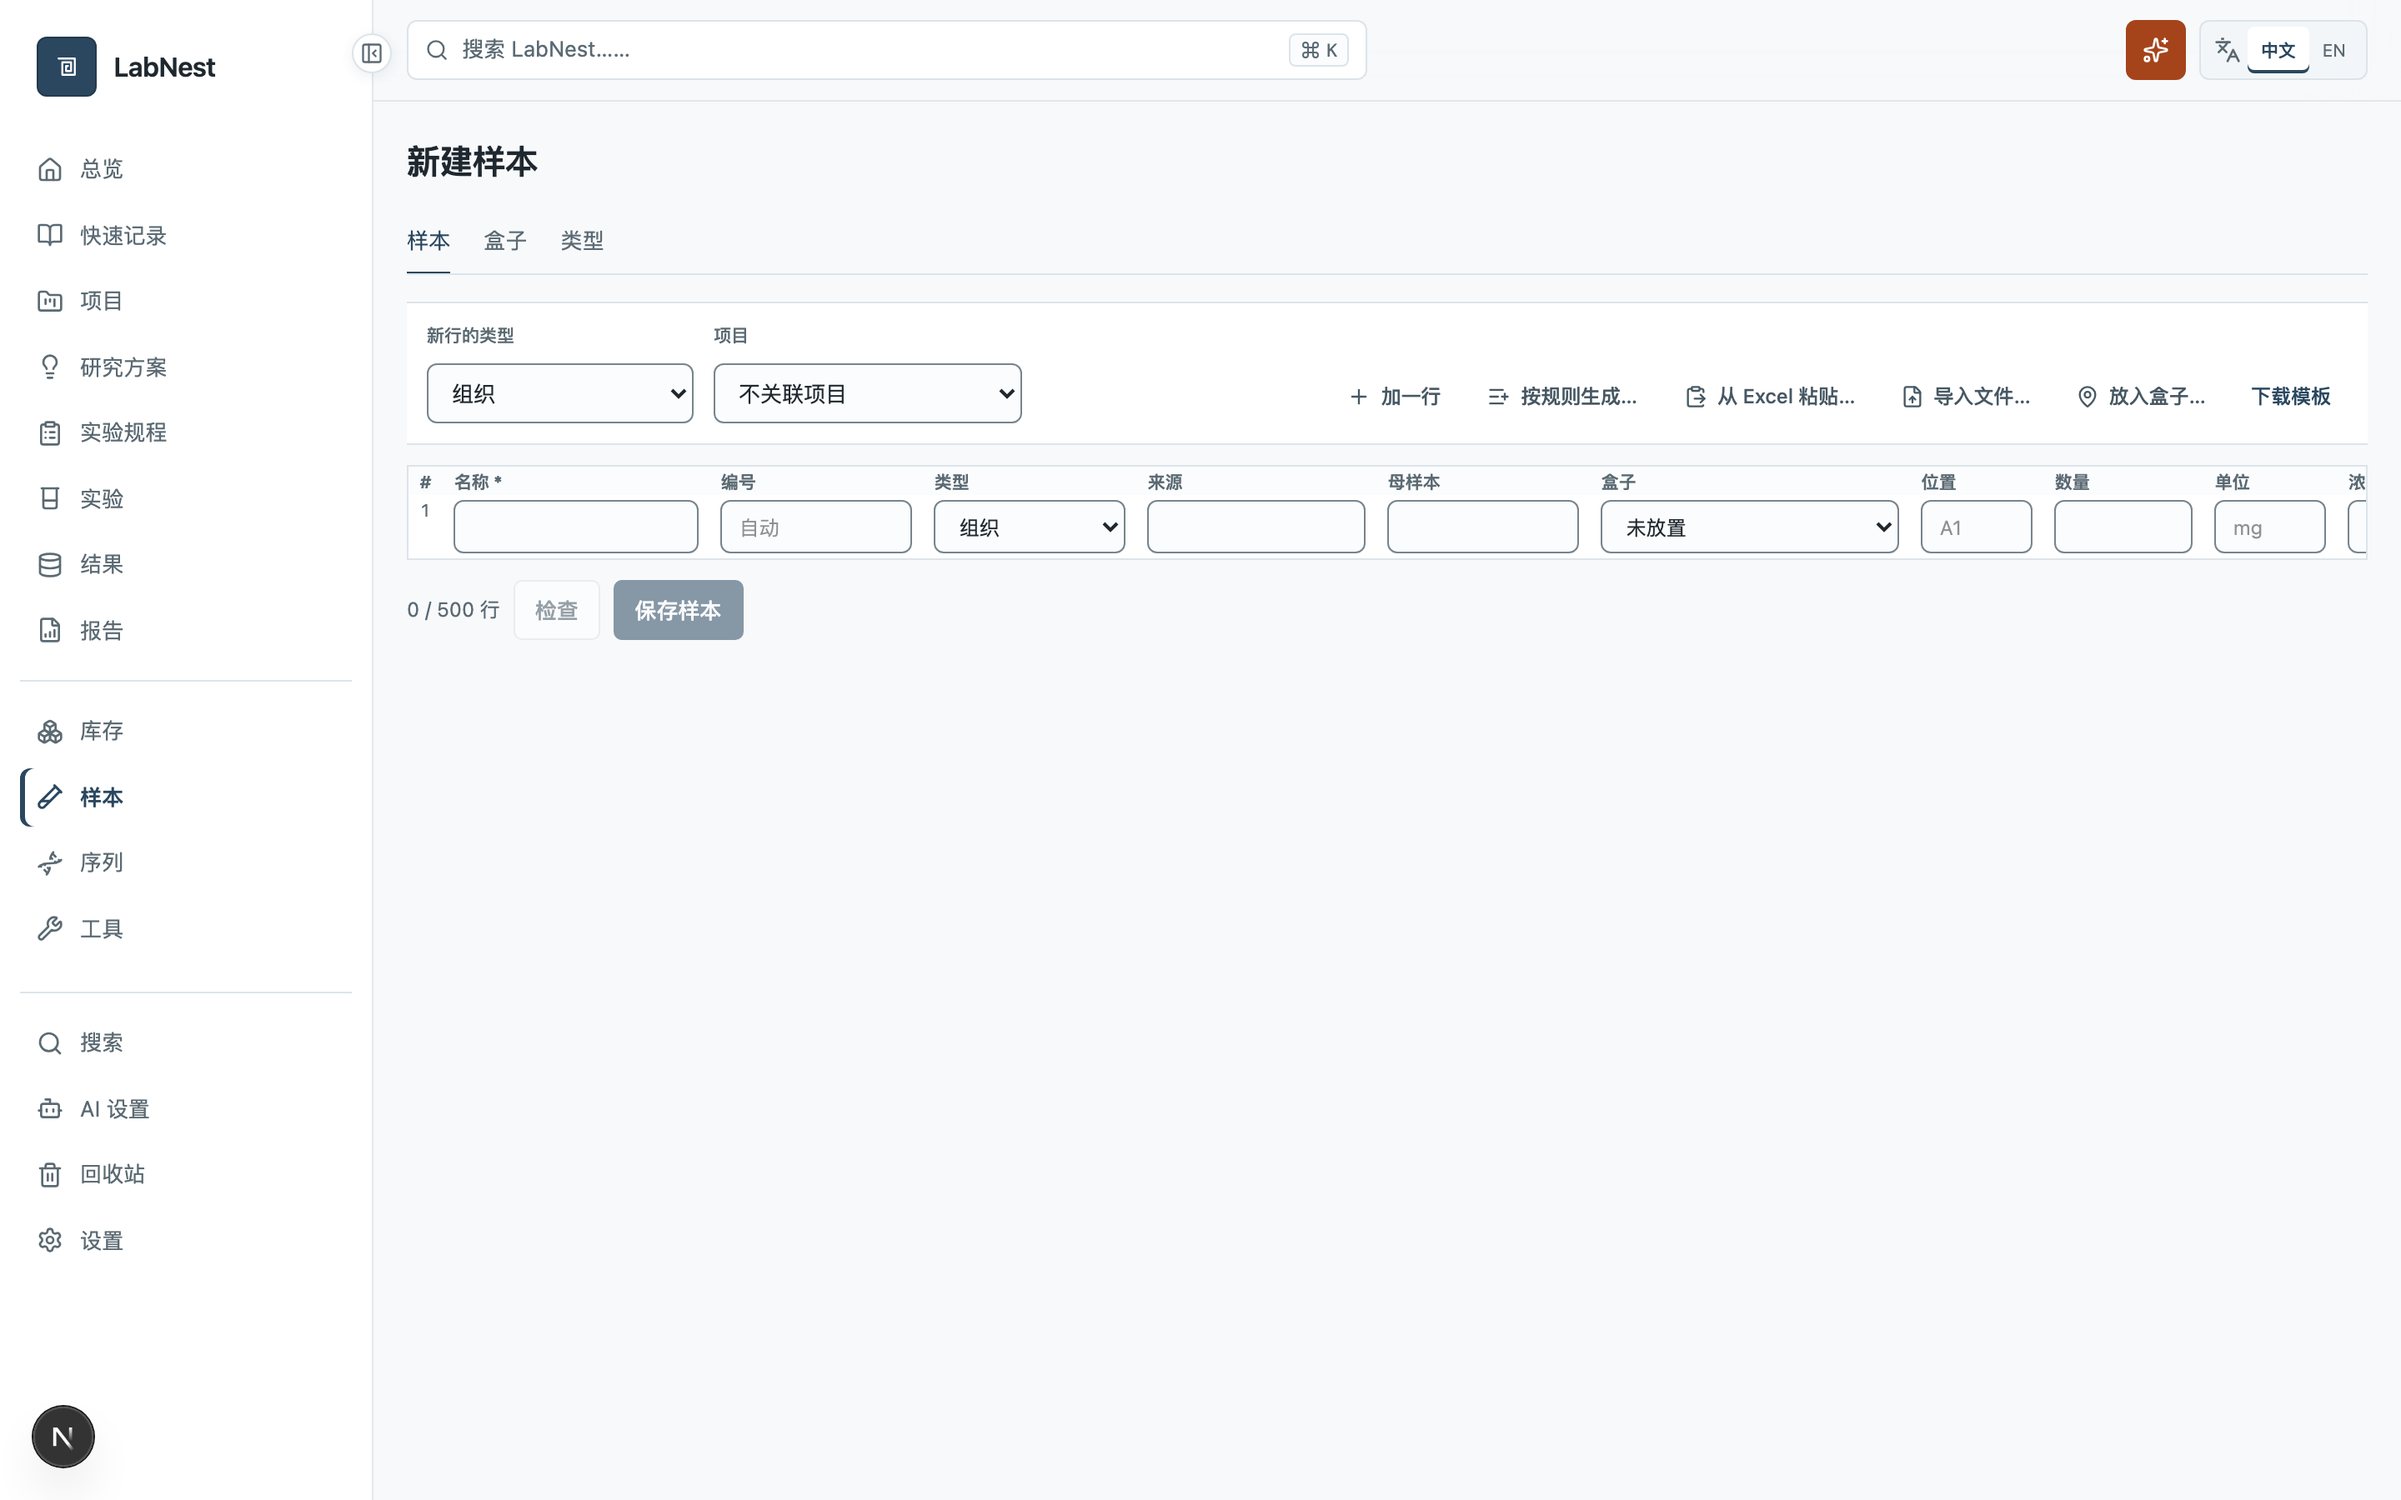
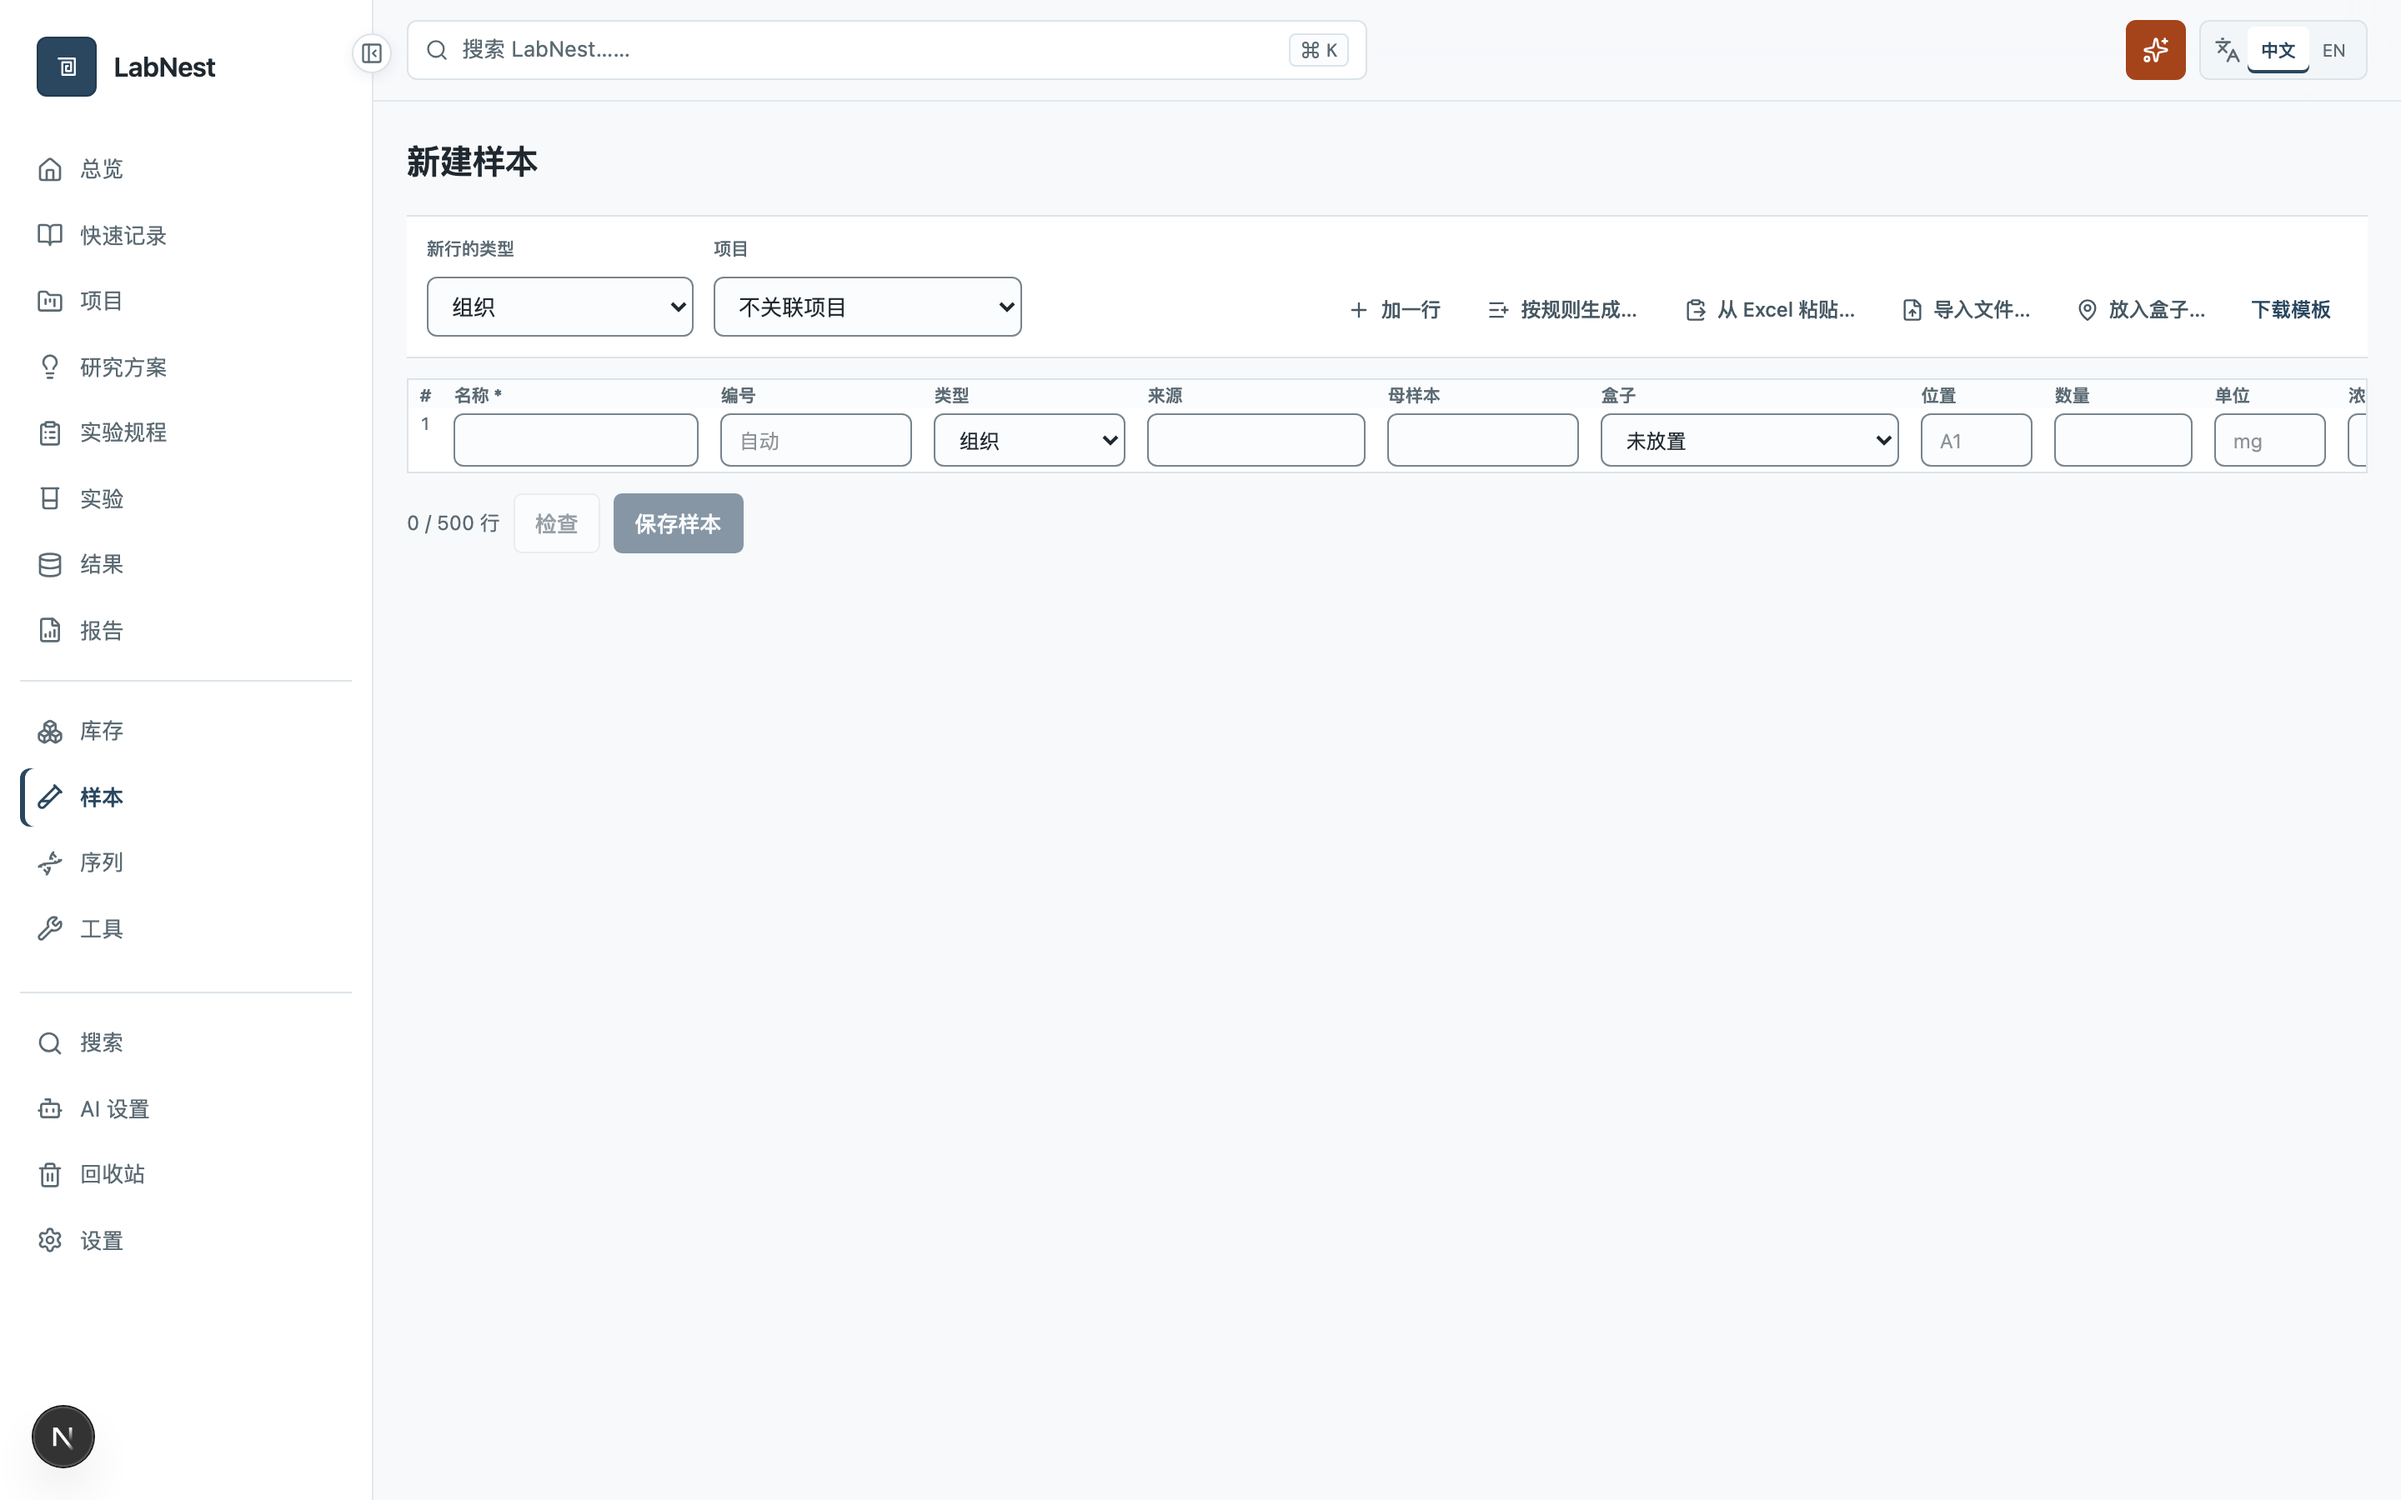
feat(samples): sample tabs like inventory's on 3002
The 样本 / 盒子 / 类型 tab bar takes the inventory tab bar's look from the
inventory session's preview: an icon and a record count on each tab and a
tinted selected tab. A sample's page shows the tabs first, then a back link
and its header; the new-samples form shows no tabs, like 登记库存.
Records the 3003 acceptance in the batch doc.

diff --git a/src/components/SampleNav.tsx b/src/components/SampleNav.tsx
@@ -1,29 +1,45 @@
 import Link from "next/link";
+import { Grid3x3, Tags, TestTube2, type LucideIcon } from "lucide-react";
 import { cn } from "@/lib/cn";
+import { prisma } from "@/lib/db";
 
 const sections = [
-  { key: "samples", href: "/samples", label: "Samples" },
-  { key: "boxes", href: "/samples/boxes", label: "Boxes" },
-  { key: "types", href: "/samples/types", label: "Types" },
-] as const;
+  { key: "samples", href: "/samples", label: "Samples", icon: TestTube2 },
+  { key: "boxes", href: "/samples/boxes", label: "Boxes", icon: Grid3x3 },
+  { key: "types", href: "/samples/types", label: "Types", icon: Tags },
+] as const satisfies readonly { key: string; href: string; label: string; icon: LucideIcon }[];
 
-/** The samples module's pages, one row under the page title (the same pattern as inventory's). */
-export function SampleNav({ current }: { current: (typeof sections)[number]["key"] }) {
+/**
+ * The samples pages, one row under the page title, each with how many records it lists; the same tab bar as inventory's.
+ * Detail pages show it too, with the page they belong to selected.
+ */
+export async function SampleNav({ current }: { current: (typeof sections)[number]["key"] }) {
+  const [samples, boxes, types] = await Promise.all([
+    prisma.sample.count(),
+    prisma.inventoryLocation.count({ where: { status: "active" } }),
+    prisma.scientificSchemaDefinition.count({ where: { objectKind: "sample" } }),
+  ]);
+  const counts = { samples, boxes, types };
   return (
-    <nav aria-label="Sample sections" className="flex gap-5 overflow-x-auto border-b border-hairline">
-      {sections.map((section) => (
-        <Link
-          key={section.key}
-          href={section.href}
-          aria-current={section.key === current ? "page" : undefined}
-          className={cn(
-            "focus-ring -mb-px shrink-0 border-b-2 pb-2 pt-1 text-[13px] font-medium transition-colors",
-            section.key === current ? "border-moss text-moss" : "border-transparent text-muted hover:text-ink",
-          )}
-        >
-          {section.label}
-        </Link>
-      ))}
+    <nav aria-label="Sample sections" className="editorial-scrollbar flex gap-1 overflow-x-auto border-b border-hairline">
+      {sections.map(({ key, href, label, icon: Icon }) => {
+        const active = key === current;
+        return (
+          <Link
+            key={key}
+            href={href}
+            aria-current={active ? "page" : undefined}
+            className={cn(
+              "focus-ring -mb-px inline-flex h-10 shrink-0 items-center gap-2 border-b-2 px-3 text-sm font-medium transition-colors",
+              active ? "border-moss bg-sage-surface/60 text-moss" : "border-transparent text-graphite hover:bg-warm hover:text-ink",
+            )}
+          >
+            <Icon className="h-4 w-4" aria-hidden />
+            <span>{label}</span>
+            <span className={cn("rounded-full px-1.5 text-xs font-semibold leading-5 tabular-nums", active ? "bg-surface text-moss" : "bg-stone text-muted")}>{counts[key]}</span>
+          </Link>
+        );
+      })}
     </nav>
   );
 }

diff --git a/src/app/samples/[id]/page.tsx b/src/app/samples/[id]/page.tsx
@@ -1,6 +1,6 @@
 import Link from "next/link";
 import { notFound } from "next/navigation";
-import { GitBranchPlus, Pencil } from "lucide-react";
+import { ArrowLeft, GitBranchPlus, Pencil } from "lucide-react";
 import { AppShell } from "@/components/AppShell";
 import { PageHeader } from "@/components/PageHeader";
 import { SamplePlace, SampleQuantity, SampleStatusBadge } from "@/components/SampleBits";
@@ -53,12 +53,15 @@ export default async function SamplePage({ params }: { params: Promise<{ id: str
   return (
     <AppShell>
       <div className="space-y-4">
-        <PageHeader identifier={sample.code} title={sample.name} actions={<>
-          <Link href={`/samples/${id}/edit`} className={secondary}><Pencil className="h-4 w-4" aria-hidden />Edit</Link>
-          <Link href={`/samples/new?aliquot=${id}`} className={secondary}><GitBranchPlus className="h-4 w-4" aria-hidden />Aliquot…</Link>
-          <SampleDeleteButton id={id} code={sample.code} blockers={sampleDeleteBlockers(counts.get(id)!)} />
-        </>} />
         <SampleNav current="samples" />
+        <div className="space-y-1">
+          <Link href="/samples" className="focus-ring -ml-1 inline-flex min-h-8 items-center gap-1.5 rounded-[var(--ln-radius-control-sm)] px-1 text-sm text-graphite hover:text-moss"><ArrowLeft className="h-4 w-4" aria-hidden /><span>Samples</span></Link>
+          <PageHeader identifier={sample.code} title={sample.name} actions={<>
+            <Link href={`/samples/${id}/edit`} className={secondary}><Pencil className="h-4 w-4" aria-hidden />Edit</Link>
+            <Link href={`/samples/new?aliquot=${id}`} className={secondary}><GitBranchPlus className="h-4 w-4" aria-hidden />Aliquot…</Link>
+            <SampleDeleteButton id={id} code={sample.code} blockers={sampleDeleteBlockers(counts.get(id)!)} />
+          </>} />
+        </div>
 
         <section className="grid gap-px overflow-hidden rounded-[var(--ln-radius-panel)] border border-hairline bg-hairline sm:grid-cols-2 xl:grid-cols-4">
           <Fact label="Type">{sample.type.label}</Fact>

diff --git a/src/app/samples/new/page.tsx b/src/app/samples/new/page.tsx
@@ -3,7 +3,6 @@ import { notFound } from "next/navigation";
 import { AppShell } from "@/components/AppShell";
 import { PageHeader } from "@/components/PageHeader";
 import { SampleEntryTable } from "@/components/SampleEntryTable";
-import { SampleNav } from "@/components/SampleNav";
 import { prisma } from "@/lib/db";
 import { firstSearchParam, type PageSearchParams } from "@/lib/filters";
 import { suggestedOutputType } from "@/lib/experiment-samples";
@@ -89,7 +88,6 @@ export default async function NewSamplesPage({ searchParams }: { searchParams?: 
     <AppShell>
       <div className="space-y-4">
         <PageHeader title={experiment ? "Register outputs" : aliquot ? "Aliquot" : "New samples"} />
-        {experiment ? null : <SampleNav current="samples" />}
         <SampleEntryTable
           types={types}
           locations={locations.map((location) => ({ id: location.id, label: location.label, name: location.name, geometry: location.geometry }))}

diff --git a/docs/modules/samples/20261031/PLAN.md b/docs/modules/samples/20261031/PLAN.md
@@ -2,7 +2,7 @@
 
 日期：2026-10-31
 分支：`feat/samples`（worktree `.claude/worktrees/samples`，基于 `origin/main` `c76a28b5`）
-状态：S1–S16 用户确认按推荐（2026-10-31）；已在分支上实施，3003 测试端口验证完毕，待用户验收。本分支不合并 main、不推送 main、不部署 3001。
+状态：S1–S16 用户确认按推荐（2026-10-31）；已在分支上实施，3003 验收通过（2026-10-31），标签栏随后按 3002 统一（第 5 节）。本分支不合并 main、不推送 main、不部署 3001，发布另行安排。
 外部样本库契约：[SAMPLE-BANK-CONTRACT.md](SAMPLE-BANK-CONTRACT.md)
 
 ## 1. 现状（2026-10-31 核对）
@@ -283,3 +283,9 @@
 - 外部样本库只定契约（S16）：没有设置项、没有接收地址、没有检索入口。
 - 真机（iPhone 软键盘、触控）未测；手机宽度为浏览器模拟。
 - 3003 开发服务器的每日备份报过 `spawn pg_dump ENOENT`（启动配置当时没设 `LABNEST_PG_BIN`），与本功能无关；启动配置已补上 `LABNEST_PG_BIN=./scripts/pg-docker`，下次启动生效。
+
+## 5. 验收与调整（2026-10-31）
+
+- 用户在 3003 验收通过（`fe174693`）。
+- 随后按用户要求，样本模块的「样本 / 盒子 / 类型」标签栏改成与 3002（库存会话预览）的库存标签栏一致：每个标签带图标和条数（样本数、在用库位数、样本类型数），选中的标签有浅绿底色和下边线；详情页先显示标签栏，再是「← 样本」返回链接和标题；新建页与库存的“登记库存”一样不显示标签栏。截图已重拍。
+- 库存的标签栏（`InventoryNav`）在库存会话未提交的改动里，本分支没有动它；`SampleNav` 照抄了同样的结构和样式。两者以后可以合成一个共用组件，留给统一 UI 时处理。

diff --git a/docs/modules/README.md b/docs/modules/README.md
@@ -8,7 +8,7 @@
 | AI 辅助 | [AI 方案与验证批次](ai/README.md) |
 | 计算器与孔板 | [计算器版本及功能批次](calculator/README.md) |
 | 库存 | [分类、产品层与完整的增删改（2026-10-30）](inventory/classification-20261030/PLAN.md) · [批量操作、重复检查与产品合并（2026-10-30）](inventory/bulk-duplicates-20261030/PLAN.md) |
-| 样本 | [独立模块、实验产出与外部样本库预留（2026-10-31，待验收）](samples/20261031/PLAN.md) · [外部样本库接口契约](samples/20261031/SAMPLE-BANK-CONTRACT.md) |
+| 样本 | [独立模块、实验产出与外部样本库预留（2026-10-31，已验收，未发布）](samples/20261031/PLAN.md) · [外部样本库接口契约](samples/20261031/SAMPLE-BANK-CONTRACT.md) |
 | 富文本编辑器 | [修复规格](editor-repair/SPEC.md) · [验收](editor-repair/ACCEPTANCE.md) · [复查](editor-repair/REVIEW.md) |
 | 外观与主题 | [外观基础方案与证据目录](appearance/foundation/) |
 | Tools 接入 | [2026-10-20 入口验证](tools-entrypoints-20261020/VERIFICATION.md) · [部署说明](../operations/tools-deployment.md) |
